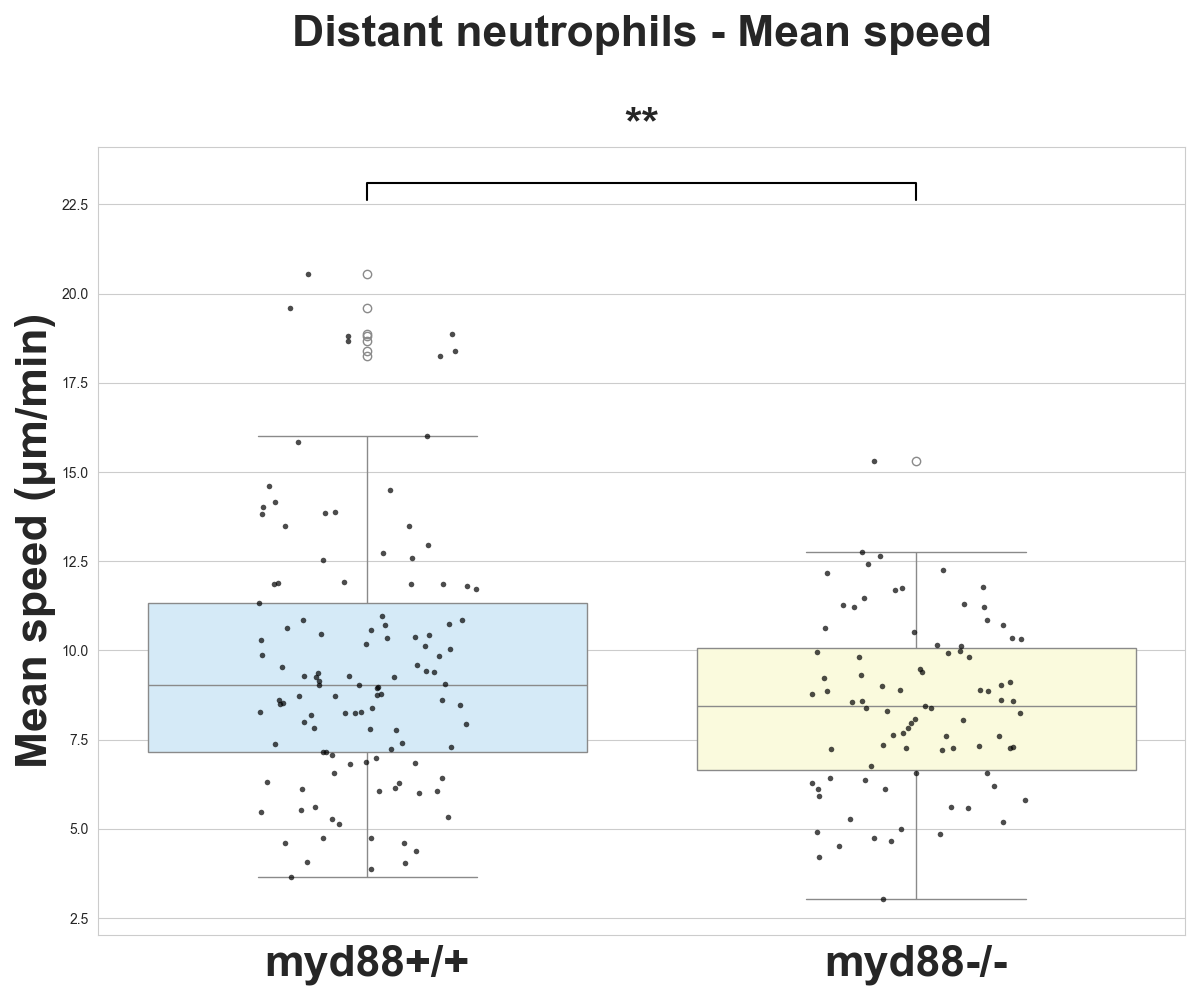
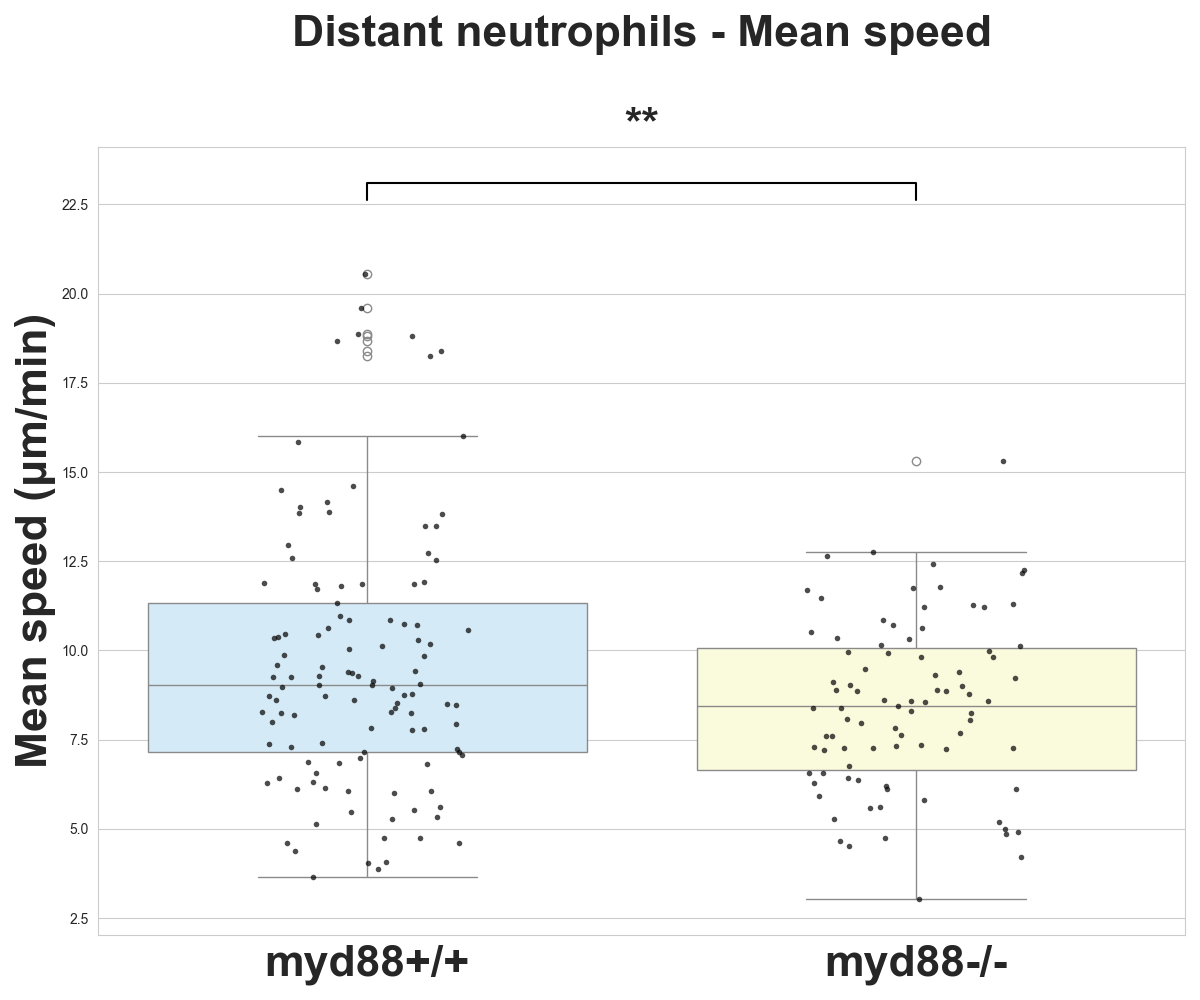
update

diff --git a/main_evaluation_260101/260112a_ttest_avg_net_distance_per_frame_combine_fig.py b/main_evaluation_260101/260112a_ttest_avg_net_distance_per_frame_combine_fig.py
@@ -16,15 +16,22 @@ def main():
     output_folder: str = data_path + "ttest_result/"
     measurement_file_path: str = data_path + '260112c_all_pkl_track_result_measurements.csv'
     df = pandas.read_csv(measurement_file_path)
-
     pkl_file_name_list: list[str] = [
-                                    'gt_results_dict.pkl', 
+                                    # 'gt_results_dict.pkl', 
+                                    'kuan_tracks_allseries_unet.pkl', 
                                     'delta_results_dict.pkl', 
                                     'hungarian_results_dict.pkl', 
-                                    'kuan_tracks_allseries_unet.pkl', 
                                     'viterbi_results_dict_adj2.pkl',
                                     "Viterbi-like(Multi)__viterbi_adjust4f_a_hp182__R(ALL)_M(0.89)_MIN(5)_CT(0.48)_ADJ(NO)_CS(D)_BB(S).pkl"
                                     ]
+
+    file_name_to_method_name_dict: dict = {}
+    file_name_to_method_name_dict["kuan_tracks_allseries_unet.pkl"] = "KDE"
+    file_name_to_method_name_dict["delta_results_dict.pkl"] = "DELTA"
+    file_name_to_method_name_dict["hungarian_results_dict.pkl"] = "Hungarian"
+    file_name_to_method_name_dict["viterbi_results_dict_adj2.pkl"] = "Basic Viterbi"
+    file_name_to_method_name_dict["Viterbi-like(Multi)__viterbi_adjust4f_a_hp182__R(ALL)_M(0.89)_MIN(5)_CT(0.48)_ADJ(NO)_CS(D)_BB(S).pkl"] = "Extended Viterbi"
+
 
     measurement_input_list: list[MeasurementInput] = []
     measurement_input_list.append(MeasurementInput("Net Displacement", "net_displacement_microns"))
@@ -32,9 +39,9 @@ def main():
     measurement_input_list.append(MeasurementInput("Mean speed", "mean_speed_microns"))
 
     fig, axes = plt.subplots(
-        nrows=6,
-        ncols=6,
-        figsize=(50, 50),  # 512 x 512 pixels at dpi=100
+        nrows=5,
+        ncols=3,
+        figsize=(40, 50),  # 512 x 512 pixels at dpi=100
         dpi=100
     )
 
@@ -43,7 +50,9 @@ def main():
     significant_single_data_str: str = ""
     fig_pos_x: int = 0
     for pkl_file_name in pkl_file_name_list:
-        print("pkl_file_name: ", pkl_file_name)
+        # print("pkl_file_name: ", pkl_file_name)
+        method_name: str = file_name_to_method_name_dict[pkl_file_name]
+
         filtered_df = df[df['pkl_file_name'] == pkl_file_name]
         filtered_df = filtered_df[filtered_df["distance_traveled_per_frame_microns"] > distance_traveled_per_frame_micron_threshold]
         filtered_plus_df = filtered_df[filtered_df['cell_type'] == 'plus']
@@ -62,6 +71,10 @@ def main():
             myd88_wt = filtered_plus_df_data_list   # myd88+/+ 组
             myd88_ko = filtered_minus_data_list     # myd88-/- 组
 
+
+
+            
+
             label_list = ['myd88+/+', 'myd88-/-']
             data_list = [myd88_wt, myd88_ko]
 
@@ -75,7 +88,7 @@ def main():
 
             significant_single_data_str += sig_label.ljust(3) + " "
             measurement_type_fixed_length: str = measurement_type.ljust(15)
-            print("measurement_type/ len(dataset_1)/ len(dataset_2)/ sig_label: ", measurement_type_fixed_length, "/ ", len(dataset_1), "/ ", len(dataset_2), "/ ", sig_label)
+            # print("measurement_type/ len(dataset_1)/ len(dataset_2)/ sig_label: ", measurement_type_fixed_length, "/ ", len(dataset_1), "/ ", len(dataset_2), "/ ", sig_label)
             
 
             fig_pos_y: int = 0
@@ -86,7 +99,7 @@ def main():
 
             # tmp = axes[fig_pos_x, fig_pos_y]
             # print("dsfg", type(axes[fig_pos_x, fig_pos_y]))
-            create_ttest_plot(axes, fig_pos_x, fig_pos_y, data_list, label_list, measurement_type, sig_label)
+            create_ttest_plot(axes, fig_pos_x, fig_pos_y, data_list, label_list, method_name, measurement_type, sig_label)
 
             # plt.tight_layout()
             # plt.show()
@@ -96,6 +109,16 @@ def main():
                 output_pkl_file_name = "Viterbi Extended"
             else:
                 output_pkl_file_name = pkl_file_name[0:-4]
+
+
+            myd88_wt_np = np.array(myd88_wt)
+            myd88_ko_np = np.array(myd88_ko)
+            myd88_wt_mean = np.mean(myd88_wt_np).round(decimals=2)
+            myd88_wt_std = np.std(myd88_wt_np).round(decimals=2)
+            myd88_ko_mean = np.mean(myd88_ko_np).round(decimals=2)
+            myd88_ko_std = np.std(myd88_ko_np).round(decimals=2)
+            print(method_name, measurement_type, myd88_wt_mean, myd88_wt_std, myd88_ko_mean, myd88_ko_std)
+
 
             file_order_count += 1
 
@@ -128,7 +151,7 @@ def reduce_list_data_size(data_list: list, percentage_to_keep: int):
 
 
 
-def create_ttest_plot(axis_plot, sub_plot_x, sub_plot_y, data_list, label_list, measurement_type, sig_label):
+def create_ttest_plot(axis_plot, sub_plot_x, sub_plot_y, data_list, label_list, method_name, measurement_type, sig_label):
 
     dataset_1 = data_list[0]
     dataset_2 = data_list[1]
@@ -140,27 +163,34 @@ def create_ttest_plot(axis_plot, sub_plot_x, sub_plot_y, data_list, label_list, 
     # 绘制散点箱线图
     palette_color_list: list[str] = ["#CFEBFD", "#FFFFD8"] 
     box_plot = sns.boxplot(data=data_list, width=0.8, palette=palette_color_list, ax=axis_plot[sub_plot_x, sub_plot_y])
-    sns.stripplot(data=data_list, color='black', size=4, jitter=0.2, alpha=0.7)
+    sns.stripplot(data=data_list, color='black', size=6, jitter=0.2, alpha=0.7, ax=axis_plot[sub_plot_x, sub_plot_y])
 
     # 添加显著性标记
     y_max = max(np.max(dataset_1), np.max(dataset_2)) * 1.1
     x1, x2 = 0, 1
 
-    # original
-    # plt.plot([x1, x1, x2, x2], [y_max, y_max+0.5, y_max+0.5, y_max], lw=1.5, color='black')
-    # plt.text((x1+x2)/2, y_max+0.8, sig_label, ha='center', va='bottom', fontsize=12)
-
     axis_plot[sub_plot_x, sub_plot_y].plot([x1, x1, x2, x2], [y_max, y_max+0.5, y_max+0.5, y_max], lw=1.5, color='black')
 
-
-    # print("dfsgsdfg y_max", y_max)
-    # plt.text((x1+x2)/2, y_max, sig_label + str(y_max), ha='center', va='top', fontsize=12, weight='bold')
-
     # 设置标签和标题
-    axis_plot[sub_plot_x, sub_plot_y].set_title("Distant neutrophils - " + measurement_type + "\n\n" + sig_label, fontsize=32, weight='bold')
+    if sub_plot_x == 0:
+        axis_plot[sub_plot_x, sub_plot_y].set_title(measurement_type + "\n\n" + sig_label, fontsize=32, weight='bold')
+    else:
+        axis_plot[sub_plot_x, sub_plot_y].set_title(sig_label, fontsize=32, weight='bold')
+    
+
 
     axis_plot[sub_plot_x, sub_plot_y].set_xticks([0, 1], label_list, fontsize=32, weight='bold')
-    axis_plot[sub_plot_x, sub_plot_y].set_ylabel(measurement_type + " (μm/min)", fontsize=32, weight='bold')
+
+    y_axis_text: str = ""
+    if measurement_type == "Net Displacement":
+        y_axis_text = method_name + "\n\n"
+    
+    y_axis_text += measurement_type + " (μm/min)"
+
+    axis_plot[sub_plot_x, sub_plot_y].set_ylabel(y_axis_text, fontsize=32, weight='bold')
+
+    # axis_plot[sub_plot_x, sub_plot_y].set_yticks(axis='y', fontsize=32)
+    axis_plot[sub_plot_x, sub_plot_y].tick_params(axis='y', which='major', labelsize=32)
 
     # ymin, ymax = plt.ylim()
     # plt.ylim(ymin, max(ymax, y_max + 1.5))

diff --git a/experiment/260112_draw_diagram.py b/experiment/260112_draw_diagram.py
@@ -1,38 +1,74 @@
-import pandas as pd
-import seaborn as sns
 import matplotlib.pyplot as plt
-from scipy.stats import sem
+import seaborn as sns
+import pandas as pd
+import numpy as np
 
-# Example data
+# ----------------------
+# Data declaration
+# ----------------------
+np.random.seed(42)
+
+# Numeric x-axis data
+x = np.arange(1, 6)
+y_linear = x
+y_quadratic = x**2
+
+# Data for boxplot
 df = pd.DataFrame({
-    "value": [5, 6, 7, 6, 5, 6, 8, 9, 7, 8, 9, 8],
-    "group": ["Group 1"] * 6 + ["Group 2"] * 6
+    "Group": ["A"] * 20 + ["B"] * 20 + ["C"] * 20,
+    "Value": np.concatenate([
+        np.random.normal(5, 1, 20),
+        np.random.normal(7, 1.5, 20),
+        np.random.normal(6, 1, 20)
+    ])
 })
 
-plt.figure()
-
-# Bar plot (set palette explicitly)
-sns.barplot(
-    data=df,
-    x="group",
-    y="value",
-    palette=["skyblue", "lightgreen"],  # bar colors
-    errorbar=lambda x: sem(x),
-    alpha=0.7
+# ----------------------
+# Create subplots
+# ----------------------
+fig, axes = plt.subplots(
+    nrows=2,
+    ncols=2,
+    figsize=(5.12, 5.12),  # 512 x 512 pixels @ dpi=100
+    dpi=100
 )
 
-# Strip plot (force a different color)
-sns.stripplot(
-    data=df,
-    x="group",
-    y="value",
-    color="black",    # <-- explicitly different from bars
-    size=6,
-    jitter=True,
-    zorder=10
-)
+# ----------------------
+# Top-left: Line plot
+# ----------------------
+axes[0, 0].plot(x, y_linear, marker='o')
+axes[0, 0].set_title("Linear")
 
-plt.ylabel("Value")
-plt.title("Bar plot with differently colored stripplot overlay")
+# ----------------------
+# Top-right: Quadratic plot
+# ----------------------
+axes[0, 1].plot(x, y_quadratic, marker='o')
+axes[0, 1].set_title("Quadratic")
+
+# ----------------------
+# Bottom-left: Scatter plot
+# ----------------------
+axes[1, 0].scatter(x, y_quadratic)
+axes[1, 0].set_title("Scatter")
+
+# ----------------------
+# Bottom-right: Seaborn boxplot
+# ----------------------
+sns.boxplot(
+    data=df,
+    x="Group",
+    y="Value",
+    ax=axes[1, 1]
+)
+axes[1, 1].set_title("Seaborn Boxplot")
+
+# ----------------------
+# Shared formatting
+# ----------------------
+for ax in axes.flat:
+    ax.set_xlabel("X")
+    ax.set_ylabel("Y")
+    ax.grid(True)
+
 plt.tight_layout()
 plt.show()

diff --git a/main_evaluation_260101/260108_ttest_avg_net_distance_per_frame.py b/main_evaluation_260101/260108_ttest_avg_net_distance_per_frame.py
@@ -9,9 +9,9 @@ import math
 def main():
     sigificant_data_list: list[float] = []
 
-    start: int = 2.4
+    start: int = 1
     increment = 0.1
-    step = 1
+    step = 20
 
     for _ in range(0, step):
         start = round(start, 3)
